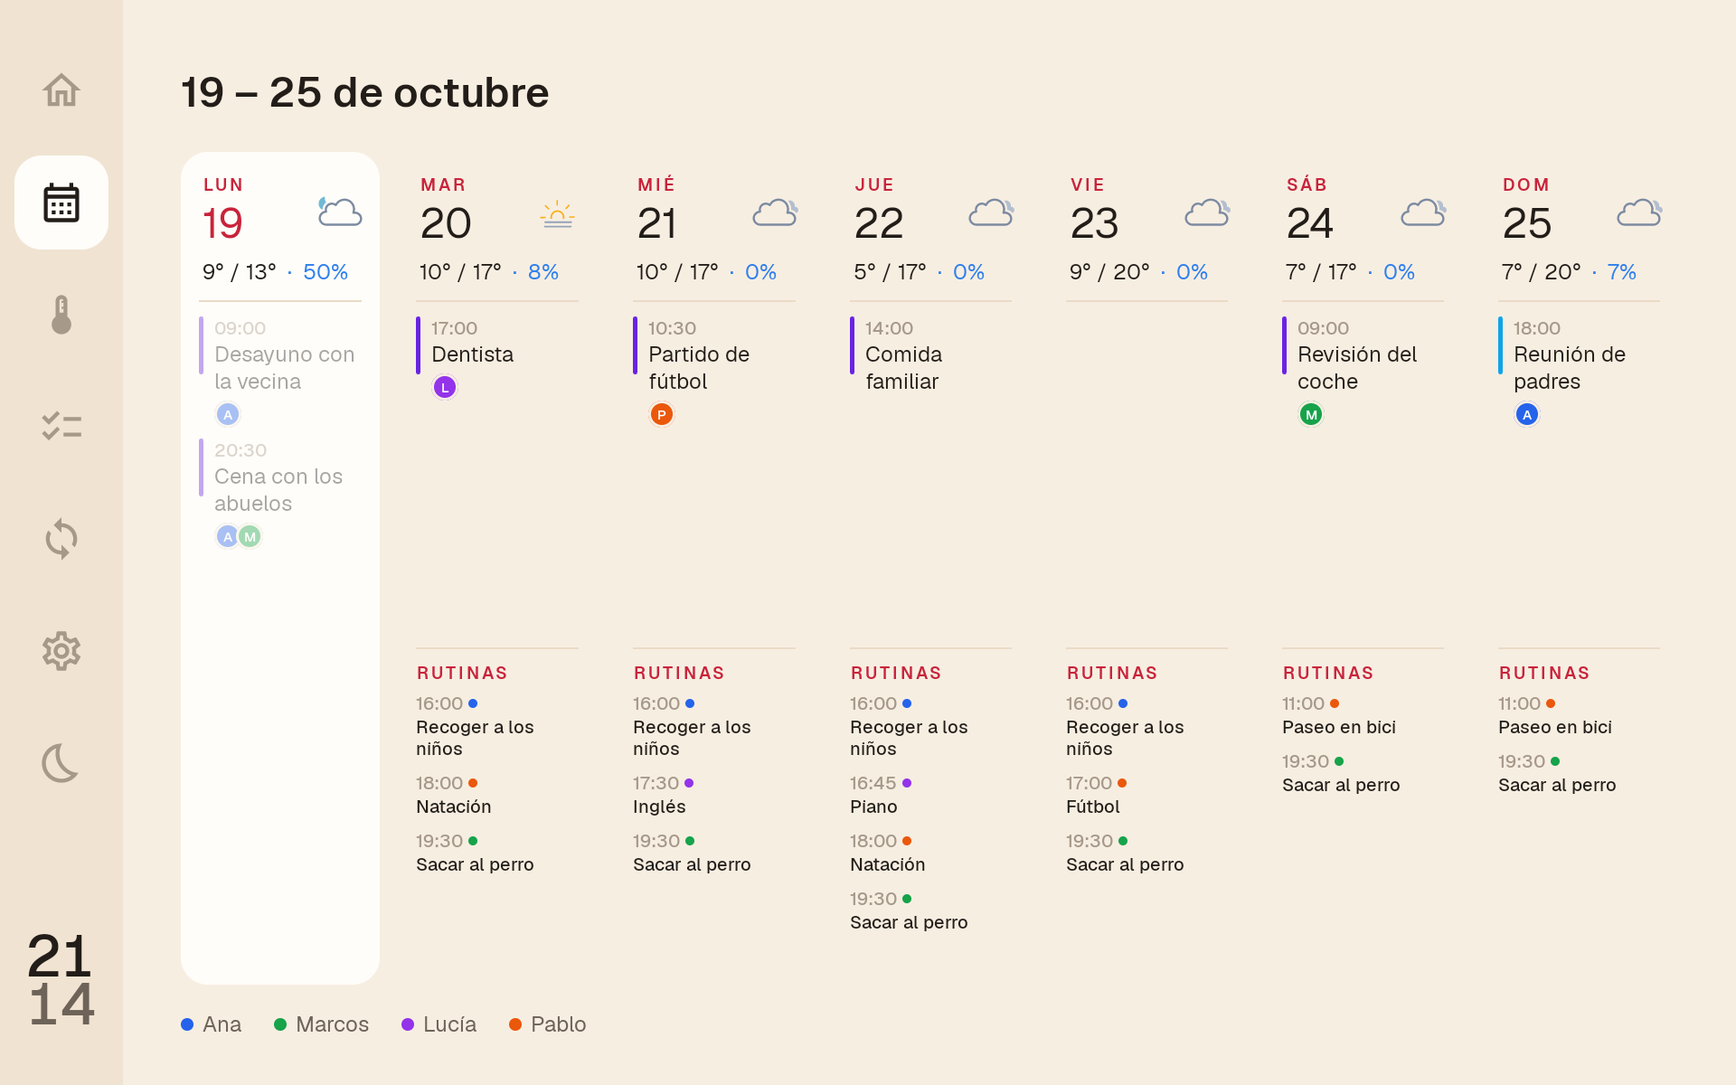
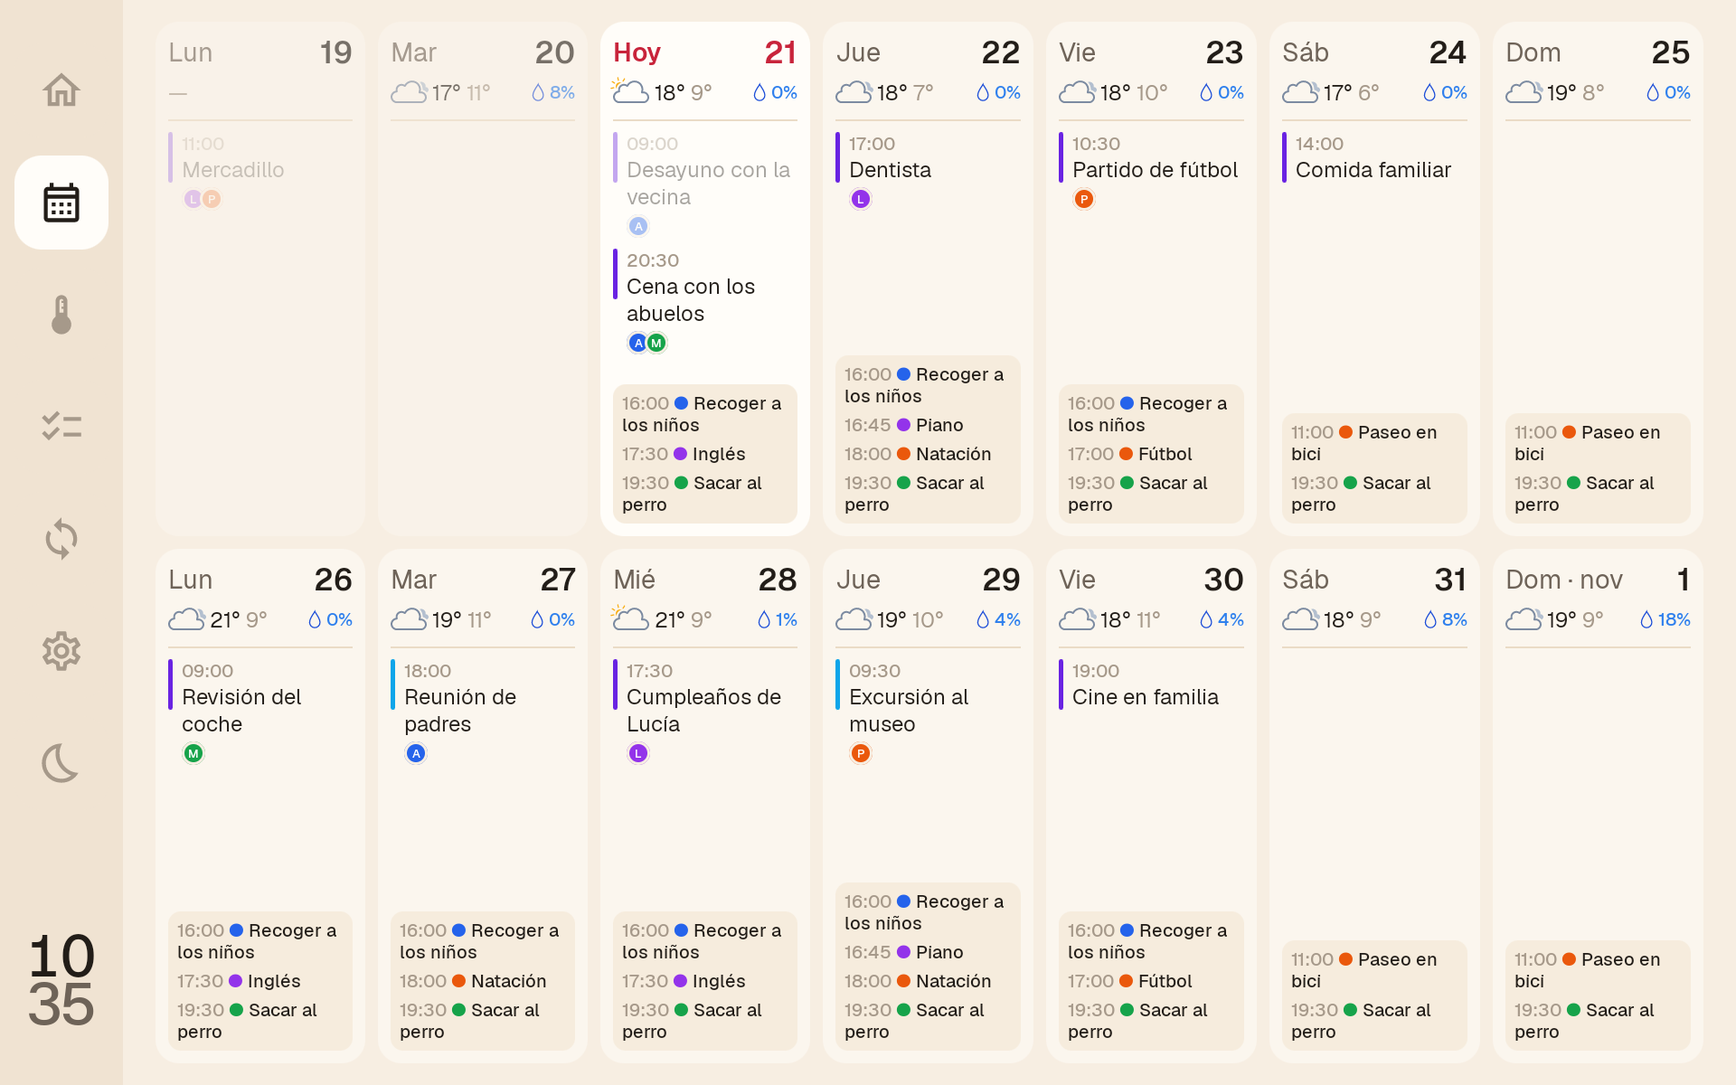
Calendario: dos semanas en dos filas, deslizando en vertical
Cada día es una tarjeta: el día y el número arriba (hoy en rojo), el tiempo en una línea, los eventos y las
rutinas en una caja abajo. Sin título ni leyenda de personas, para dejar todo el alto a las dos semanas.

diff --git a/android/app/src/main/java/com/lito/planify/dashboard/ui/CalendarScreen.kt b/android/app/src/main/java/com/lito/planify/dashboard/ui/CalendarScreen.kt
@@ -3,6 +3,7 @@ package com.lito.planify.dashboard.ui
 import androidx.compose.foundation.background
 import androidx.compose.foundation.layout.Arrangement
 import androidx.compose.foundation.layout.Box
+import androidx.compose.foundation.layout.BoxWithConstraints
 import androidx.compose.foundation.layout.Column
 import androidx.compose.foundation.layout.Row
 import androidx.compose.foundation.layout.fillMaxHeight
@@ -12,7 +13,8 @@ import androidx.compose.foundation.layout.height
 import androidx.compose.foundation.layout.padding
 import androidx.compose.foundation.layout.size
 import androidx.compose.foundation.layout.width
-import androidx.compose.foundation.pager.HorizontalPager
+import androidx.compose.foundation.pager.PageSize
+import androidx.compose.foundation.pager.VerticalPager
 import androidx.compose.foundation.pager.rememberPagerState
 import androidx.compose.foundation.rememberScrollState
 import androidx.compose.foundation.shape.RoundedCornerShape
@@ -23,9 +25,13 @@ import androidx.compose.runtime.rememberCoroutineScope
 import androidx.compose.ui.Alignment
 import androidx.compose.ui.Modifier
 import androidx.compose.ui.draw.alpha
+import androidx.compose.ui.text.SpanStyle
+import androidx.compose.ui.text.buildAnnotatedString
 import androidx.compose.ui.text.font.FontWeight
 import androidx.compose.ui.text.style.TextOverflow
+import androidx.compose.ui.text.withStyle
 import androidx.compose.ui.unit.dp
+import com.lito.planify.dashboard.R
 import com.lito.planify.dashboard.UiState
 import com.lito.planify.dashboard.data.Event
 import com.lito.planify.dashboard.ui.theme.Palette
@@ -39,10 +45,13 @@ import java.time.format.TextStyle
 private const val WEEKS = 105
 private const val CURRENT = WEEKS / 2
 
+/** Separación entre días y entre semanas. */
+private val GAP = 14.dp
+
 /**
- * Calendario por semanas de lunes a domingo, deslizando a izquierda y derecha. Cada semana se descarga
- * al mostrarla (y las vecinas, para que el deslizamiento no espere); mientras tanto se usa lo que haya
- * del contenido de Hoy.
+ * Calendario en dos filas, la semana actual y la siguiente, de lunes a domingo. Se desliza en vertical de semana en
+ * semana. Cada semana se descarga al mostrarla (y las vecinas, para que el deslizamiento no espere); mientras tanto
+ * se usa lo que haya del contenido de Hoy.
  */
 @Composable
 fun CalendarScreen(state: UiState, onLoadWeek: (LocalDate) -> Unit) {
@@ -54,47 +63,31 @@ fun CalendarScreen(state: UiState, onLoadWeek: (LocalDate) -> Unit) {
 
     LaunchedEffect(pager.settledPage) {
         val monday = mondayOf(pager.settledPage)
-        listOf(monday, monday.plusWeeks(1), monday.minusWeeks(1)).forEach(onLoadWeek)
+        listOf(monday, monday.plusWeeks(1), monday.plusWeeks(2), monday.minusWeeks(1)).forEach(onLoadWeek)
     }
 
-    val shown = mondayOf(pager.currentPage)
-    val shownWeek = weekContent(state, shown)
-    val persons = (shownWeek.first + shownWeek.second).flatMap { it.persons.orEmpty() }.distinctBy { it.id }
-
-    ScreenPadding {
-        Column(Modifier.fillMaxSize()) {
-            // Alto fijo: el botón "Volver a hoy" aparece y desaparece sin mover las columnas.
-            Row(verticalAlignment = Alignment.CenterVertically, modifier = Modifier.fillMaxWidth().height(84.dp)) {
-                Text(weekRange(shown).replaceFirstChar { it.uppercaseChar() }, style = Type.Title.copy(fontWeight = FontWeight.SemiBold), modifier = Modifier.weight(1f))
-                if (pager.currentPage != CURRENT) {
-                    PillButton("Volver a hoy") { scope.launch { pager.animateScrollToPage(CURRENT) } }
+    BoxWithConstraints(Modifier.fillMaxSize().padding(horizontal = 36.dp, vertical = 24.dp)) {
+        // Dos semanas en pantalla: cada página mide la mitad del alto
+        val row = (maxHeight - GAP) / 2
+        VerticalPager(pager, Modifier.fillMaxSize(), pageSize = PageSize.Fixed(row), pageSpacing = GAP, beyondViewportPageCount = 1) { page ->
+            val monday = mondayOf(page)
+            val (events, sessions) = weekContent(state, monday)
+            Row(Modifier.fillMaxSize(), horizontalArrangement = Arrangement.spacedBy(GAP)) {
+                (0 until 7).forEach { offset ->
+                    val date = monday.plusDays(offset.toLong())
+                    DayCard(
+                        date = date,
+                        state = state,
+                        events = events.filter { it.at.toLocalDate() == date },
+                        sessions = sessions.filter { it.at.toLocalDate() == date },
+                        modifier = Modifier.weight(1f).fillMaxHeight().alpha(if (date < today) 0.6f else 1f)
+                    )
                 }
             }
-            HorizontalPager(pager, Modifier.weight(1f).fillMaxWidth().padding(top = 24.dp), pageSpacing = 40.dp) { page ->
-                val monday = mondayOf(page)
-                val (events, sessions) = weekContent(state, monday)
-                Row(Modifier.fillMaxSize(), horizontalArrangement = Arrangement.spacedBy(20.dp)) {
-                    (0 until 7).forEach { offset ->
-                        val date = monday.plusDays(offset.toLong())
-                        DayColumn(
-                            date = date,
-                            state = state,
-                            events = events.filter { it.at.toLocalDate() == date },
-                            sessions = sessions.filter { it.at.toLocalDate() == date },
-                            modifier = Modifier.weight(1f).fillMaxHeight().alpha(if (date < today) 0.6f else 1f)
-                        )
-                    }
-                }
-            }
-            if (persons.isNotEmpty()) {
-                Row(horizontalArrangement = Arrangement.spacedBy(36.dp), modifier = Modifier.padding(top = 28.dp)) {
-                    persons.forEach { person ->
-                        Row(verticalAlignment = Alignment.CenterVertically, horizontalArrangement = Arrangement.spacedBy(10.dp)) {
-                            Dot(parseColor(person.color))
-                            Text(person.name, style = Type.Small)
-                        }
-                    }
-                }
+        }
+        if (pager.currentPage != CURRENT) {
+            PillButton("Volver a hoy", Modifier.align(Alignment.BottomEnd).padding(24.dp), primary = true) {
+                scope.launch { pager.animateScrollToPage(CURRENT) }
             }
         }
     }
@@ -109,60 +102,79 @@ private fun weekContent(state: UiState, monday: LocalDate): Pair<List<Event>, Li
 }
 
 @Composable
-private fun DayColumn(date: LocalDate, state: UiState, events: List<Event>, sessions: List<Event>, modifier: Modifier) {
+private fun DayCard(date: LocalDate, state: UiState, events: List<Event>, sessions: List<Event>, modifier: Modifier) {
     val isToday = date == state.now.toLocalDate()
     val forecast = state.forecast
     val day = forecast?.dayIndex(date) ?: -1
 
     Column(
         modifier
-            .background(if (isToday) Palette.Card else Palette.Background, RoundedCornerShape(30.dp))
-            .padding(horizontal = 20.dp, vertical = 24.dp)
+            .background(if (isToday) Palette.Card else Palette.Card.copy(alpha = 0.5f), RoundedCornerShape(26.dp))
+            .padding(start = 14.dp, end = 14.dp, top = 12.dp, bottom = 14.dp)
     ) {
-        // Cabecera de alto fijo, haya previsión o no: día y número con el icono a la derecha, y debajo mín, máx y lluvia.
-        val hasWeather = forecast != null && day >= 0
-        Row(verticalAlignment = Alignment.CenterVertically, modifier = Modifier.padding(start = 4.dp)) {
-            Column(Modifier.weight(1f)) {
-                SectionLabel(date.dayOfWeek.getDisplayName(TextStyle.SHORT, Spanish).trimEnd('.'))
-                Text("${date.dayOfMonth}", style = Type.Title.copy(color = if (isToday) Palette.Accent else Palette.Ink))
-            }
-            Box(Modifier.size(48.dp)) { if (hasWeather) DayWeatherIcon(forecast!!, date, today = date.takeIf { isToday }, size = 48) }
+        // Día de la semana (o "Hoy") a la izquierda y el número a la derecha; el día 1, también el mes
+        Row(verticalAlignment = Alignment.CenterVertically) {
+            val weekday = date.dayOfWeek.getDisplayName(TextStyle.SHORT, Spanish).trimEnd('.').replaceFirstChar { it.uppercaseChar() }
+            val month = if (date.dayOfMonth == 1) " · " + date.month.getDisplayName(TextStyle.SHORT, Spanish).trimEnd('.') else ""
+            Text(
+                if (isToday) "Hoy" else weekday + month,
+                style = Type.Body.copy(color = if (isToday) Palette.Accent else Palette.InkSoft, fontWeight = if (isToday) FontWeight.SemiBold else FontWeight.Normal),
+                maxLines = 1,
+                modifier = Modifier.weight(1f)
+            )
+            Text("${date.dayOfMonth}", style = Type.Large.copy(color = if (isToday) Palette.Accent else Palette.Ink, fontWeight = FontWeight.SemiBold), maxLines = 1)
         }
-        Row(Modifier.padding(start = 4.dp, top = 8.dp)) {
-            if (hasWeather) {
+        // El tiempo en una línea, de alto fijo haya previsión o no: icono, máxima y mínima, y la lluvia a la derecha
+        Row(verticalAlignment = Alignment.CenterVertically, modifier = Modifier.height(44.dp)) {
+            if (forecast != null && day >= 0) {
+                DayWeatherIcon(forecast, date, today = date.takeIf { isToday }, size = 40)
                 Text(
-                    "${forecast!!.daily.temperature_2m_min[day].degrees()} / ${forecast.daily.temperature_2m_max[day].degrees()}",
+                    forecast.daily.temperature_2m_max[day].degrees(),
                     style = Type.Small.copy(color = Palette.Ink),
-                    maxLines = 1
+                    maxLines = 1,
+                    modifier = Modifier.padding(start = 6.dp)
                 )
                 Text(
-                    "  ·  ${forecast.daily.precipitation_probability_max[day] ?: 0}%",
-                    style = Type.Small.copy(color = Palette.Rain),
-                    maxLines = 1
+                    " " + forecast.daily.temperature_2m_min[day].degrees(),
+                    style = Type.Small.copy(color = Palette.InkMuted),
+                    maxLines = 1,
+                    modifier = Modifier.weight(1f)
                 )
+                StaticMeteocon(R.drawable.meteocons_raindrop, 26)
+                Text("${forecast.daily.precipitation_probability_max[day] ?: 0}%", style = Type.Tiny.copy(color = Palette.Rain), maxLines = 1)
             } else {
                 Text("—", style = Type.Small.copy(color = Palette.InkMuted))
             }
         }
-        Box(Modifier.padding(vertical = 16.dp)) { Hairline() }
+        Box(Modifier.padding(top = 8.dp, bottom = 12.dp)) { Hairline() }
 
-        Column(Modifier.weight(1f).fadingScroll(rememberScrollState()), verticalArrangement = Arrangement.spacedBy(12.dp)) {
+        Column(Modifier.weight(1f).fadingScroll(rememberScrollState(), edge = 32.dp), verticalArrangement = Arrangement.spacedBy(12.dp)) {
             events.forEach { WeekEvent(it, past = it.at.isBefore(state.now)) }
         }
 
+        // Las rutinas del día, en una caja abajo: hora, color de cada persona y nombre, que sigue en la línea de debajo
         if (sessions.isNotEmpty()) {
-            Box(Modifier.padding(vertical = 14.dp)) { Hairline() }
-            SectionLabel("Rutinas", Modifier.padding(bottom = 8.dp))
-            Column(Modifier.height(300.dp).fadingScroll(rememberScrollState()), verticalArrangement = Arrangement.spacedBy(12.dp)) {
+            Column(
+                Modifier
+                    .padding(top = 10.dp)
+                    .fillMaxWidth()
+                    .background(Palette.Highlight, RoundedCornerShape(14.dp))
+                    .padding(horizontal = 10.dp, vertical = 8.dp),
+                verticalArrangement = Arrangement.spacedBy(6.dp)
+            ) {
                 sessions.forEach { session ->
-                    // Arriba la hora y el color de cada persona; debajo, el nombre de la rutina
-                    Column(Modifier.alpha(if (session.at.isBefore(state.now)) 0.4f else 1f)) {
-                        Row(verticalAlignment = Alignment.CenterVertically, horizontalArrangement = Arrangement.spacedBy(6.dp)) {
-                            Text(session.at.format(HourMinute), style = Type.Tiny.copy(color = Palette.InkMuted))
-                            session.persons.orEmpty().forEach { Dot(parseColor(it.color), 10) }
-                        }
-                        Text(session.title, style = Type.Tiny.copy(color = Palette.Ink), maxLines = 2, overflow = TextOverflow.Ellipsis)
-                    }
+                    Text(
+                        buildAnnotatedString {
+                            withStyle(SpanStyle(color = Palette.InkMuted)) { append(session.at.format(HourMinute)) }
+                            session.persons.orEmpty().forEach { withStyle(SpanStyle(color = parseColor(it.color))) { append(" ●") } }
+                            append(" ")
+                            append(session.title)
+                        },
+                        style = Type.Tiny.copy(color = Palette.Ink),
+                        maxLines = 2,
+                        overflow = TextOverflow.Ellipsis,
+                        modifier = Modifier.alpha(if (session.at.isBefore(state.now)) 0.4f else 1f)
+                    )
                 }
             }
         }
@@ -172,11 +184,11 @@ private fun DayColumn(date: LocalDate, state: UiState, events: List<Event>, sess
 @Composable
 private fun WeekEvent(event: Event, past: Boolean) {
     Row(Modifier.fillMaxWidth().alpha(if (past) 0.4f else 1f)) {
-        Box(Modifier.width(5.dp).height(64.dp).background(parseColor(event.calendar_color), RoundedCornerShape(3.dp)))
-        Column(Modifier.padding(start = 12.dp)) {
+        Box(Modifier.width(5.dp).height(56.dp).background(parseColor(event.calendar_color), RoundedCornerShape(3.dp)))
+        Column(Modifier.padding(start = 10.dp)) {
             Text(event.at.format(HourMinute), style = Type.Tiny.copy(color = Palette.InkMuted))
-            Text(event.title, style = Type.Small.copy(color = Palette.Ink), maxLines = 2, overflow = TextOverflow.Ellipsis)
-            PersonInitials(event.persons, Modifier.padding(top = 6.dp), size = 30)
+            Text(event.title, style = Type.Small.copy(color = Palette.Ink), maxLines = 3, overflow = TextOverflow.Ellipsis)
+            PersonInitials(event.persons, Modifier.padding(top = 4.dp), size = 26)
         }
     }
 }

diff --git a/docs/ARCHITECTURE.md b/docs/ARCHITECTURE.md
@@ -11,7 +11,7 @@ Sin sesión iniciada se muestra el login (icono de Planify y formulario, centrad
 - **Hoy:** rejilla de 3 columnas en dos filas (55 % y 45 % del alto).
   - Arriba, en 1/3, la hora y la fecha centradas y el **siguiente** evento (tarjeta del color de su calendario: sus personas y, a la derecha, lo que falta en una píldora, como en la lista de próximos eventos; debajo, el título y el día y la hora). Ese evento no se repite en la lista de próximos eventos. En 2/3, la **tarjeta del tiempo**: icono, temperatura y estado; lluvia del día, humedad y viento como iconos con su valor (Meteocons estáticos); la curva hora a hora del día de hoy, de 00 a 23 h (la hora actual marcada con una banda translúcida, amarilla de día y gris de noche; la temperatura de todas las horas, pequeña y sin «°») con barras de lluvia solo donde llueve (el alto es la cantidad y el relleno, la probabilidad; ver más abajo); debajo, el icono del tiempo de cada hora y, abajo del todo, la hora; y, separados por una línea, los días en columnas, que se deslizan para ver la semana siguiente (vuelven a la primera a los 2 minutos). Al tocar un día, la cabecera y la curva pasan a ese día; tocarlo otra vez, o tocar hoy, vuelve a hoy (y vuelve solo a los 2 minutos). Deslizar sobre la curva pasa al día anterior o al siguiente: la curva es un pager de días que sigue al dedo (los días de abajo pasan a la página del día).
   - Abajo, el **calendario del mes**, como el de Eventos de la app (las iniciales de los días; hoy en un círculo rojo suave; un punto por cada calendario con eventos ese día, hasta 3), que se desliza para cambiar de mes (12 hacia atrás y 12 hacia delante; el título lleva el año si no es el actual); **próximos eventos** con el formato del widget de la app (barra de color, "MIÉ 14 OCT · 16:00" con el tiempo que falta en una píldora, título y personas; los pasados en gris), y **rutinas de hoy** (la lista, con la siguiente resaltada y las pasadas atenuadas). Al tocar un día del calendario se marca con un aro gris y próximos eventos pasa a ser la lista de ese día ("Miércoles 21", incluido el siguiente evento); tocarlo otra vez vuelve a la lista. Tras 5 minutos sin tocar la pantalla, el calendario vuelve al mes actual y la lista a los próximos eventos.
-- **Calendario:** semanas de lunes a domingo, deslizando a izquierda y derecha (un año hacia cada lado; "Volver a hoy" regresa a la actual), con las fechas de la semana como título. 7 columnas. La cabecera de cada día mide siempre lo mismo: día y número con el icono del tiempo a la derecha, y debajo mín / máx · lluvia (0 % si no llueve). Luego los eventos y, aparte, una banda de rutinas (hora y colores de las personas arriba, nombre debajo); los días pasados, atenuados. Cada semana se descarga al mostrarla, junto con las vecinas. Abajo, la leyenda de personas.
+- **Calendario:** dos filas, la semana actual y la siguiente, de lunes a domingo, sin título (como el diseño de referencia). Se desliza en vertical de semana en semana (`VerticalPager` con páginas de media pantalla; un año hacia cada lado; "Volver a hoy", flotando abajo a la derecha, regresa a la actual). Cada día es una tarjeta (hoy, más clara): arriba el día de la semana ("Hoy" en rojo; el día 1, también el mes) y el número a la derecha; debajo, en una línea de alto fijo, el icono del tiempo, máxima y mínima y la lluvia con su gota; luego los eventos (barra de color, hora, título y personas) y abajo, en una caja, las rutinas (hora, un punto por persona y el nombre, que sigue en la línea de debajo). Los días pasados, atenuados. Cada semana se descarga al mostrarla, junto con las vecinas.
 - **Tiempo:** dos páginas que se deslizan. La primera es la tarjeta del tiempo a pantalla completa: el mismo día de hoy de 00 a 23 h que en Hoy (la temperatura de cada hora, también sin «°»), con el icono de cada hora encima de la hora, y 7 días. La segunda, la **semana siguiente** (días 8 a 14): gráfica de máximas y mínimas, lluvia (% y mm) y viento, y las columnas de cada día. En las dos páginas, tocar un día abre sus 24 horas (en la segunda, en lugar de la gráfica semanal) y tocarlo otra vez lo cierra. Deslizar sobre la gráfica cambia de día sin cambiar de página, con la gráfica siguiendo al dedo (en la segunda: semana → lunes → … → domingo); al pasar del último día de la primera sigue la segunda, y antes de su semana se vuelve a la primera. Deslizar fuera de la gráfica, entre las dos páginas.
 - **Iconos del tiempo:** [Meteocons](https://github.com/basmilius/meteocons) de Bas Milius (estilo *line*, licencia MIT, en `third_party/meteocons/`), uno por código WMO de Open-Meteo, de día o de noche. `scripts/meteocons.py` los descarga en la versión fijada, cambia los colores pensados para fondo oscuro (nubes, niebla y viento casi blancos) por tonos pizarra y los deja en `res/raw` (animados, Lottie) y `res/drawable` (los estáticos de la cabecera: nube con lluvia para la probabilidad, gota para la humedad y viento, con la unidad más pequeña). El código diario es el tiempo más significativo de todo el día (si hay niebla por la mañana, el día sale con niebla), así que la columna de hoy, en el tiempo y en el calendario, usa el tiempo de ahora, como la cabecera.
   - **Animados:** el icono de la cabecera y los de las columnas de días (Hoy, Tiempo y Calendario); la fila de horas, estática. Dibujar los Lottie en cada fotograma costaba 1–2 núcleos y subía el marco a 72 °C, así que cada icono se renderiza una vez en segundo plano a su tamaño exacto (90 fotogramas: su bucle de 6 s a 15 fps, caché de 48 MB) y animarlo es pintar un bitmap, todos sincronizados con un único reloj. Medido en el marco: Hoy 31 % de un núcleo, Tiempo 37 %, Calendario 25 %, sin pasar de 61 °C; la app ocupa unos 175 MB y quedan unos 400 MB libres. Con la pantalla apagada no se anima nada.

diff --git a/README.md b/README.md
@@ -40,7 +40,7 @@ La pantalla principal: reloj de paletas, el siguiente evento con cuenta atrás, 
 <img src="docs/images/today.png" alt="Hoy" />
 
 ### Calendario
-La semana de lunes a domingo, deslizando entre semanas: el tiempo de cada día, los eventos, una banda aparte para las rutinas y la leyenda de personas. Los días pasados, atenuados.
+Dos filas, la semana actual y la siguiente, de lunes a domingo, deslizando en vertical de semana en semana. Cada día, en su tarjeta: el día y el número (hoy, en rojo), el tiempo en una línea, los eventos y abajo, en una caja, las rutinas. Los días pasados, atenuados.
 
 <img src="docs/images/calendar.png" alt="Calendario" />
 
@@ -270,7 +270,7 @@ Barra lateral con Hoy, Calendario, Tiempo, Tareas, sincronizar, Ajustes y apagar
 | Pantalla | Contenido |
 |---|---|
 | **Hoy** | Reloj de paletas (split-flap), el siguiente evento con cuenta atrás, el tiempo (ahora, el día de hoy de 00 a 23 h con la hora actual marcada y los próximos días, que se deslizan), calendario del mes, próximos eventos y rutinas de hoy |
-| **Calendario** | Semana a semana (deslizando): el tiempo de cada día, los eventos, una banda aparte para las rutinas y los colores de cada persona |
+| **Calendario** | Dos semanas en dos filas, deslizando en vertical: el tiempo de cada día, los eventos y una caja con las rutinas |
 | **Tiempo** | Hoy de 00 a 23 h y 7 días; la semana siguiente en gráfica; tocar un día abre sus 24 horas con su cabecera |
 | **Tareas** | Todas las listas elegidas, en columnas |
 | **Reloj nocturno** | Fuera de horario, o al pulsar la luna: hora, fecha y tiempo sobre negro con el brillo al mínimo; tocarlo enseña el dashboard |
